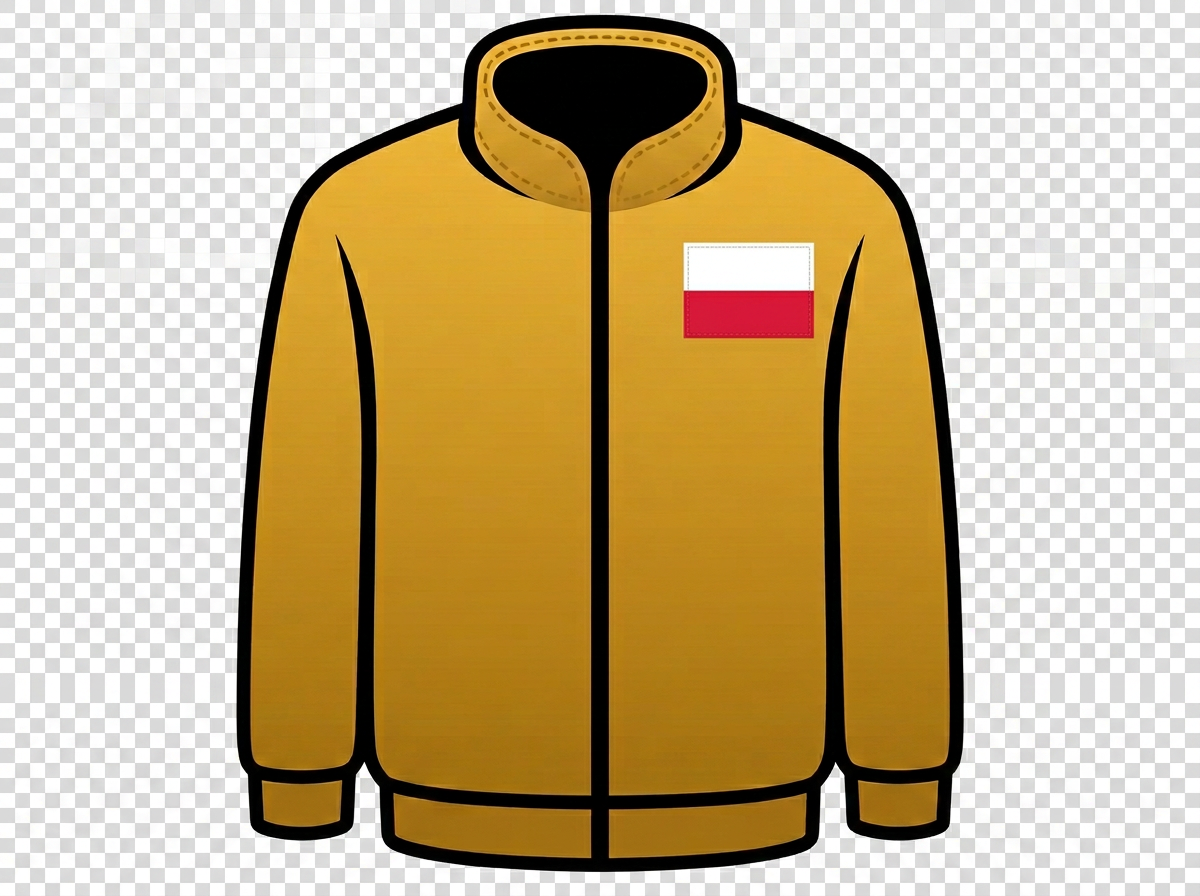
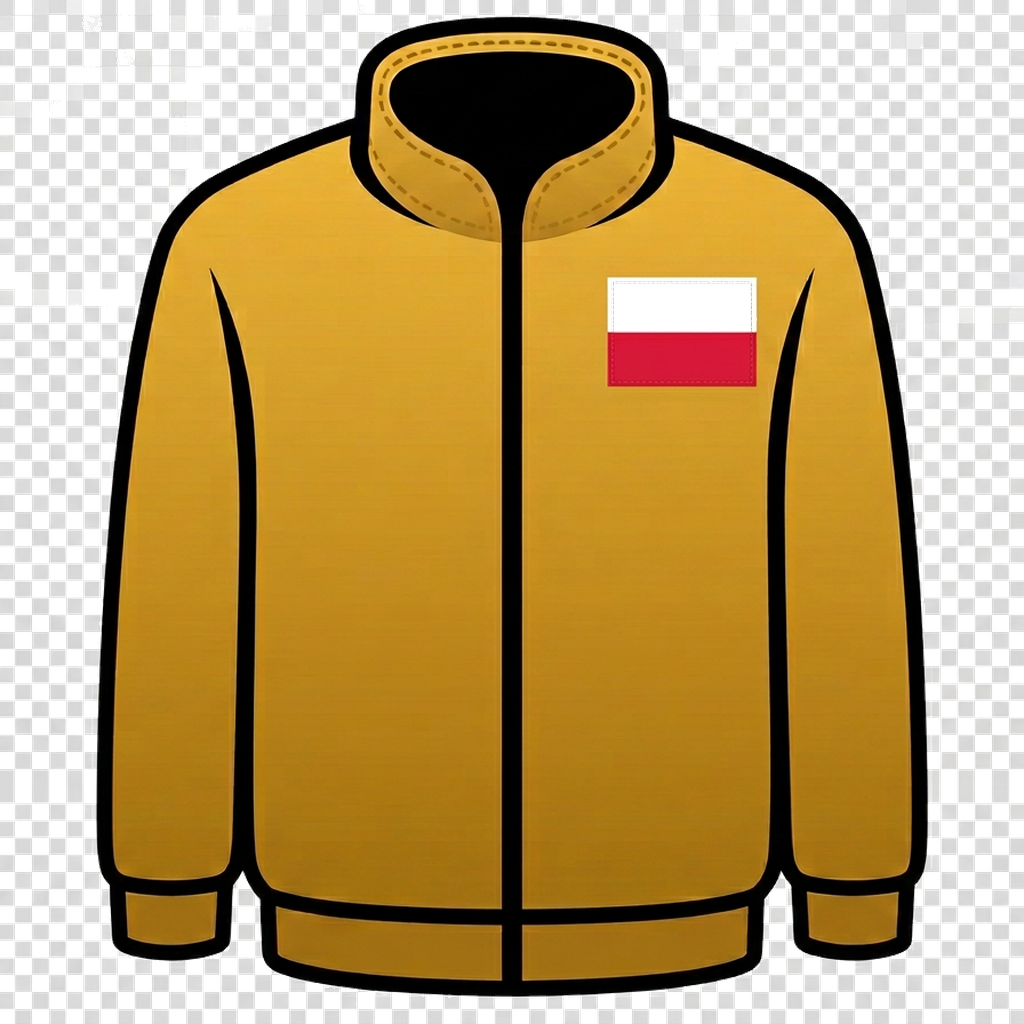
Fix jacket images: remove white bg, make square 1024x1024, fix CSS

diff --git a/index.html b/index.html
@@ -136,7 +136,7 @@
       text-align: center; padding: 70px 20px 50px;
       background: linear-gradient(180deg, var(--bg2) 0%, var(--bg) 100%);
     }
-    .hero-logo { width: 140px; height: 140px; border-radius: 16px; margin-bottom: 28px; animation: pulse 3s ease-in-out infinite; }
+    .hero-logo { width: 140px; height: auto; border-radius: 0; margin-bottom: 28px; animation: pulse 3s ease-in-out infinite; background: transparent; }
     @keyframes pulse { 0%,100%{ transform:scale(1); filter:drop-shadow(0 0 15px rgba(255,215,0,0.3)); } 50%{ transform:scale(1.12); filter:drop-shadow(0 0 40px rgba(255,215,0,0.7)); } }
     .hero h1 { font-size: 2.6em; font-weight: 800; margin-bottom: 16px; }
     .hero h1 .gold { color: var(--gold); }
